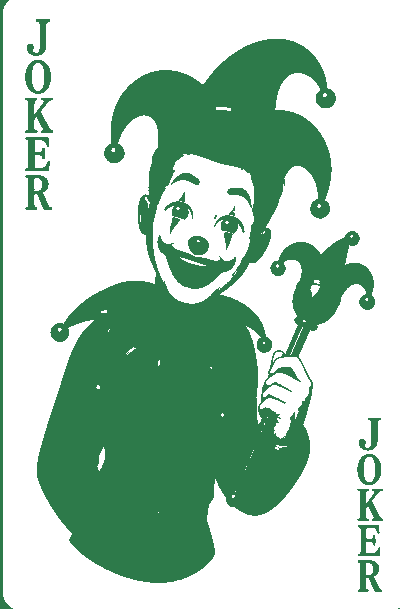
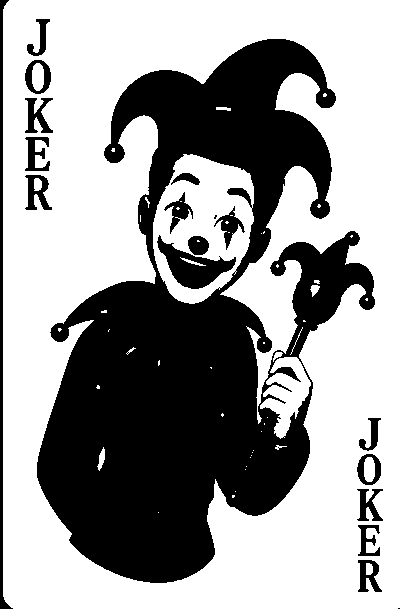
Use CSS mask for joker watermark; convert PNG to black-on-transparent
Applies the mask approach from main: a plain <span> with
background-color clipped by the PNG's alpha channel, replacing the
inline SVG. Converts joker-silhouette.png to black-on-transparent
so it works correctly as a mask source.

https://claude.ai/code/session_01Y6Rs6bbE5AbZ5v7aFoSQuQ

diff --git a/public/app.js b/public/app.js
@@ -960,12 +960,7 @@ function renderHLJ(v) {
   // Trump watermark on felt fabric; joker placeholder when no trump yet
   const feltOverlay = v.trump
     ? `<span class="trump-watermark ${RED.has(v.trump) ? "red" : ""}">${SUIT[v.trump]}</span>`
-    : `<svg class="trump-watermark joker-placeholder" xmlns="http://www.w3.org/2000/svg" viewBox="0 0 100 65" fill="currentColor" aria-hidden="true">
-      <circle cx="8" cy="52" r="4.5"/>
-      <circle cx="78" cy="20" r="4"/>
-      <circle cx="91" cy="55" r="4.5"/>
-      <path d="M 22 62 C 16 61 10 58 8 56 C 6 54 5 52 8 48 C 11 44 16 44 20 42 C 24 40 28 36 32 30 C 36 24 40 14 48 10 C 54 7 60 8 65 13 C 68 16 70 21 72 22 C 74 23 75 20 77 17 C 79 14 79 17 78 20 C 77 24 75 27 74 30 C 72 33 72 38 74 43 C 76 48 83 52 88 53 C 90 54 92 54 91 55 C 90 57 87 59 82 60 C 72 63 58 62 48 62 C 38 62 30 63 22 62 Z"/>
-    </svg>`;
+    : `<span class="trump-watermark joker-placeholder" role="img" aria-label="No trump chosen yet"></span>`;
 
   // hand (fanned), sorted by suit then rank, dim non-legal cards while it's your turn to play
   const HLJ_SUIT_ORDER = { S: 0, H: 1, D: 2, C: 3 };

diff --git a/public/styles.css b/public/styles.css
@@ -1303,8 +1303,12 @@ label{display:block;font-size:12.5px;font-weight:600;color:var(--ink-soft);lette
 }
 .trump-watermark.red{color:rgba(200,60,60,.07)}
 .trump-watermark.joker-placeholder{
-  width:clamp(120px,32vw,200px);height:auto;
-  color:rgba(45,122,74,.45);
+  width:clamp(140px,34vw,230px);aspect-ratio:1/1;height:auto;
+  /* Jester-hat silhouette: shape comes from the PNG's alpha channel,
+     tint stays the soft felt-green watermark used by the old SVG. */
+  background-color:rgba(45,122,74,.45);
+  -webkit-mask:url(/joker-silhouette.png) center / contain no-repeat;
+          mask:url(/joker-silhouette.png) center / contain no-repeat;
 }
 
 /* self-extra strip between selfbar and actions */
